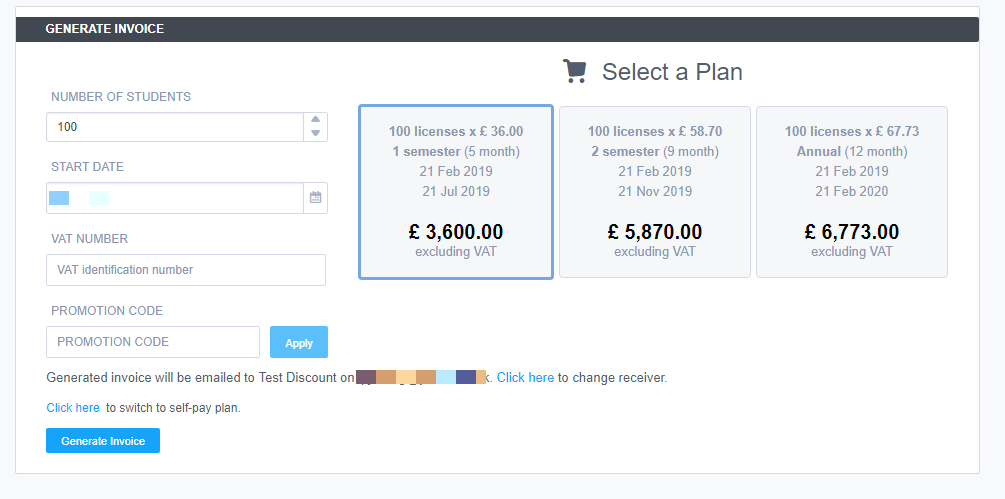
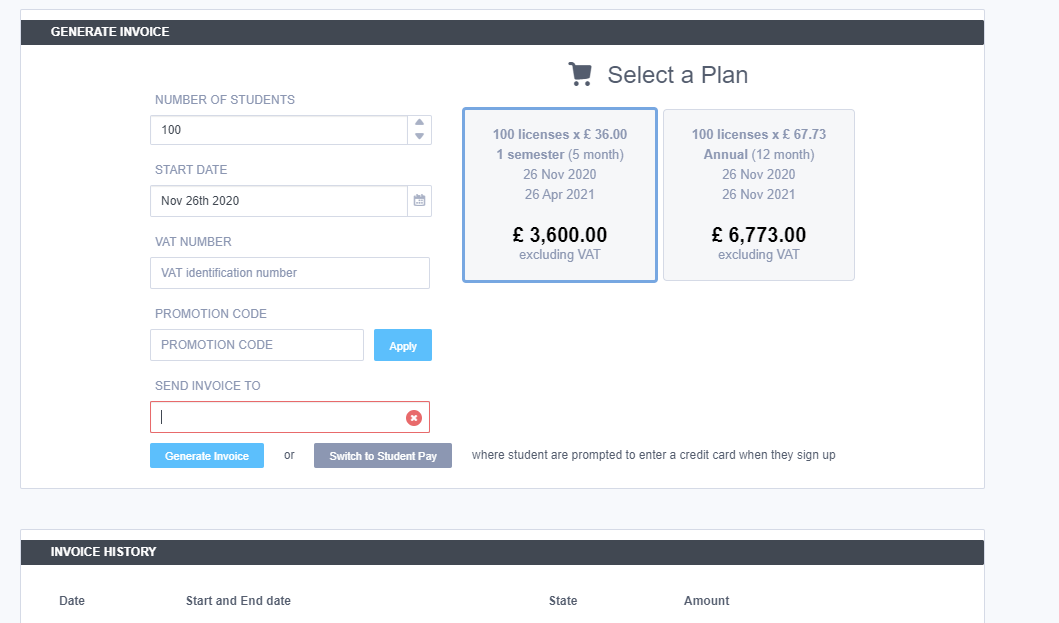
23 novupdate (#65)
* changelog #11877

* changelog #12096

* changelog #12075

* changelog #12042

* update course view for updates

* update share code for ESaaS resource

diff --git a/docs/dashboard/account.md b/docs/dashboard/account.md
@@ -207,7 +207,7 @@ Please be warned that when you do finally close the account, it cannot be retrie
 ## Organisation Billing
 ![Organizations Billing](/img/organisations_billing.png)
 
-For Schools and University organisations, the billing screen allows you to generate invoices for your account (for new accounts and renewal of existing accounts), and for active subscriptions, view the details of the current plan as well as enter the email of the person who should receive billing notifications.
+For Schools and University organisations, the billing screen allows you to generate invoices for your account (for new accounts and renewal of existing accounts),for active subscriptions, view the details of the current plan, enter the email of the person who should receive billing notifications and also where you can switch your organisation to **Student Pay** where students are prompted to enter a credit card when they sign up.
 
 To access the organsisation billing screen:
 
@@ -220,7 +220,7 @@ To access the organsisation billing screen:
 1. You will see billing options listed across the top of the page.
 ![Org Billing](/img/class_administration/orgbilling.png)
 
-Select the country you are in and 'Save'. Then enter the number of student licenses required (**minimum 25**). The plans available will be shown , select the plan you require and if you require the invoice to be sent to someone else, you can change the recipient.
+Select the country you are in and 'Save'. Then enter the number of student licenses required. The plans available will be shown , select the plan you require and if you require the invoice to be sent to someone else, you can change the recipient.
 
 If you have a promotion code, enter it in the appropriate field. Validation is case insensitive.
 
@@ -230,7 +230,7 @@ If you have a promotion code, enter it in the appropriate field. Validation is c
 
 When you are ready, click the 'Generate Invoice' button and the invoice will be generated and sent to the email address.
 
-The option to switch to/from a Self Pay plan is also available but be aware if you have an annual plan and have already paid this might lead to a conflict.
+The option to switch to a Self Pay plan where students are prompted to enter a credit card when they sign up is also available but be aware if you have an annual plan and have already paid this might lead to a conflict.
 
 
 ![Organizations Billing](/img/organisations_invoicing.png)

diff --git a/docs/courses/assessments.md b/docs/courses/assessments.md
@@ -436,6 +436,7 @@ The configuration fields for an assessment are split into five sections: General
 
 ![](/img/guides/assessment_mc_exec.png)
 
+- **Shuffle Answers** enabling this will randomise the order of the questions for the students
 - The **Multiple Response** slider indicates whether the user can select more than one answer, in which case check boxes are used instead of radio buttons to specify correct answers.
 - **Answers** is where you add as many individual answers as you require. To indicate the correct answer(s), toggle the sliders for multiple response or the radio button for single response.
 - **Ordering** using the arrows you can change the order the answers are presented to students
@@ -476,12 +477,12 @@ A 'fill in the blank' question comes in two flavours. By enabling/disabling **Sh
 ### Free Text
 The example below shows a typical question where the student has to complete the missing words. This is then auto-marked by the Guide as explained below.
 
-![authtoken](/img/guides/assessments-fitb1.png)
+![](/img/guides/assessments-fitb1.png)
 
 ### Drop Down
 The example below shows a variation, where the student is given a list of possible answers and has to select the right answer from a drop down list of possible answers. This is then auto-graded as explained below.  You can also add distractors (ie wrong answers).
 
-![authtoken](/img/guides/assessments-fitb2.png)
+![](/img/guides/assessments-fitb2.png)
 
 ### Assessment definition
 The configuration fields for an assessment are split into five sections: General, Execution, Grading, Metadata, and Files.
@@ -495,7 +496,7 @@ The configuration fields for an assessment are split into five sections: General
 
 #### Execution
 
-![authtoken](/img/guides/assessment_fitb_exec.png)
+![](/img/guides/assessment_fitb_exec.png)
 
 **Text** is the Markdown that you write including the correct answer specification. Below is an example of how the question should be specified.
 

diff --git a/docs/resources/changelog.md b/docs/resources/changelog.md
@@ -12,9 +12,13 @@ We do not report small bug fixes or issues that affect individual users, who we 
 `[F]` = New feature
 
 **November 2020**
-
+- `[F] [27th]`: Add ability to [Revert to earlier versions](/courses/coursemanagement/#reverting-to-an-earlier-version)
+- `[I] [25th]`: Improve handling of [self-invoicing](/dashboard/account/#organisation-billing)
+- `[I] [24th]`: Update handling of [Parsons Puzzle](/courses/assessments/#parsons-puzzle-assessments) assessments to always show check/submit button irrespective of submit button surpressed in guides
+- `[I] [23rd]`: Add ability to [randomise](/courses/assessments/#execution_2) answers to students for Multiple Choice assessment
+- `[I] [19th]`: Fix problem with final grades in disabled assignments
 - `[I] [19th]`: Fix problem with time shown in assessments being for when assignment opened, not when assessment run
-- `[I] [19th]`: Improve handling [Master/Child](/courses/classes/#updating-and-sending-notifications-to-child-courses) 
+- `[I] [19th]`: Improve handling [Master/Child](/courses/classes/#updating-and-sending-notifications-to-child-courses) to make pulling into child courses simpler
 - `[I] [17th]`: Improve handling of export course data for large courses
 - `[I] [17th]`: Update handling of adjusting deadline for assignments past end time where not previously started
 - `[I] [12th]`: Fix issue with submission of assessments in completed assignment when in disabled state

diff --git a/docs/courses/coursemanagement.md b/docs/courses/coursemanagement.md
@@ -299,6 +299,22 @@ then you should
 
 ![versions](/img/stack_notmodified.png)
 
+## Reverting to an earlier version
+
+You can revert back to earlier published versions. **Please Note** reverting to an earlier version automatically publishes it and will be available to students.
+
+Go to the **Versions** listing
+
+![View Versions](/img/manage_classes/viewversions.png) 
+
+Selecting will show you the listing of all previous versions, click the **Revert** button you wish to revert back to.
+
+![Revert Version](/img/manage_classes/revertversion.png) 
+
+When teachers next wish to open the assignment in edit mode in the course, they can elect to update their working copy to the currently published version if required.
+
+![publishedversion](/img/publishedversion.png)
+
 #### Stack modifications
 If you have made any changes to the project's stack then you should first press the **Stack** button where you can then change the stack or check/confirm that **Use the latest version** is selected. Please be aware that changes to the stack can be made indirectly by applications as well as manual file changes. For example, if you modified a database's contents that is not configured to live in the workspace area then these count as stack changes.
 

diff --git a/docs/courses/classes.md b/docs/courses/classes.md
@@ -96,7 +96,11 @@ This message can include details of all the changes made in each assignment or j
 
 The history of all notifications sent for published updates in the master course can be seen selecting the **View Sent Notification**
 
-Where notifications have been sent, teachers will then see a notification changes available in the associated child courses
+Where notifications have been sent, teachers will then see an icon on the course view
+
+![Course Update List](/img/manage_classes/courseupdatelist.png) 
+
+and when accessing the course, details of the notification changes available in the associated child course
 
 ![Course Update Banner](/img/manage_classes/courseupdates.png) 
 
@@ -142,7 +146,9 @@ Select the master course and module and select the assignment(s) to be added to 
 
 The assignment in the child course will automatically be published.
 
+#### Reverting to an earlier version
 
+You can revert to earlier published versions, see [Revert to earlier versions](/courses/coursemanagement/#reverting-to-an-earlier-version)
 
 ## Searching and ordering courses
 Courses are shown grouped together by their creation date with the most recently created first.

diff --git a/docs/resources/Codio-Resources.md b/docs/resources/Codio-Resources.md
@@ -25,7 +25,7 @@ Please note, if working on codio.co.uk, you need to use the **Share Code**
 
 *For more detail, click on the link.*
 
-- [Engineering Software as a Service (projects only)](https://www.codio.com/resources/esaas-projects)
+- [Engineering Software as a Service (projects only)](https://www.codio.com/resources/esaas-projects) **Share Code: 42NJ-RXEA-YVN6**
 Armando Fox and David Patterson's popular courseware seamlessly integrated for students and zero setup for instructors.
 - [CS: Introduction in Java](https://www.codio.com/resources/intro-java)
 Introduction to Computer Science in Java with native Codio content promoting engagement and active learning with fully auto-graded assessments and minimal text.
